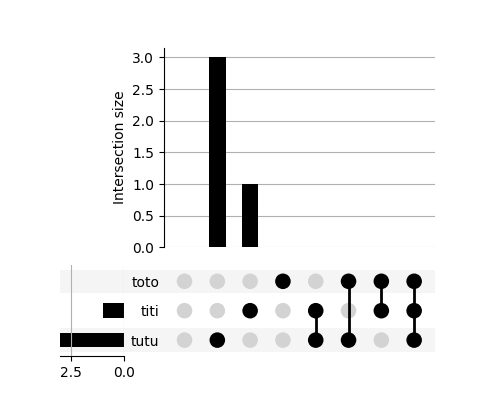
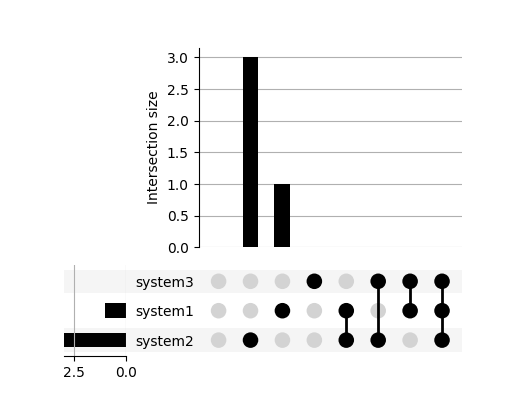
Adde examples

diff --git a/bio_to_upset_plots.py b/bio_to_upset_plots.py
@@ -62,7 +62,7 @@ def get_all_res_tokens(data, names, debug):
         all_res[type_res][cle]+=1
   return all_res
 
-def bio2upsetData(data, names, debug = False, verbose = True):
+def bio2upsetData(data, names, debug = False, verbose = False):
   """Transforms BIO data in upset_plot format"""
   all_res_tokens = get_all_res_tokens(data, names, debug)
   if verbose==True:
@@ -91,14 +91,15 @@ def plot_graph(res, path, img_format = "png"):
     example = from_memberships(liste_cats, data = data_out)
     plot(example)
     path_img = f"{path_figures}/{typ_res}.{img_format}"
-    print(path_img)
+    if VERBOSE==True:
+      print(path_img)
     pyplot.savefig(path_img)
 
-  print(f"  figures stored in '{path_figures}/'")
+  print(f"--> figures stored in '{path_figures}/'")
 
   path_upset = f"{path}/data_upset.json"
   write_json_file(path_upset, [liste_cats, data_out])
-  print(f"  output file in upset plot format stored in '{path_upset}'")
+  print(f"--> output file in upset plot format stored in '{path_upset}'")
 
 def verify_data(list_files, data_in):
   """Verify the number of BIO lines and that the tokens are the same"""
@@ -120,14 +121,20 @@ def get_names_plot(list_files, dic_names):
   If dic_names contains a "translation" for each path or each filename, it gives the translation
   """
   names = [re.split("/|\.", x)[-2] for x in list_files]
-  if len(dic_names)==len(list_files):
-    missing_paths     = set(dic_names.keys()).difference(set(list_files))
-    missing_filenames = set(dic_names.keys()).difference(set(names))
+  if len(dic_names)>0:
+    missing_paths     = set(list_files).difference(set(dic_names.keys()))
+    missing_filenames = set(names).difference(set(dic_names.keys()))
     if len(missing_paths)==0:# Translating path
       return [dic_names[x] for x in list_files]
     elif len(missing_filenames)==0:# Tranlasting filenames
       return [dic_names[x] for x in names]
   # If we are there, translation was not possible
+    print("-"*20)
+    print("'dic_names' is incomplete")
+    print(f"It provided translations for {list(dic_names.keys())} but :")
+    print(f"  - I'm missing filepath translation for {missing_paths}")
+    print(f"  - I'm missing filename translation for {missing_filenames}")
+    print("-"*20)
   return names
 
 def files_2_cat(path, img_format = "png", dic_names= {}):
@@ -137,7 +144,7 @@ def files_2_cat(path, img_format = "png", dic_names= {}):
 
   data_in = [file2_triple(path_file) for path_file in list_files]
   verify_data(list_files, data_in)
-  res = bio2upsetData(data_in, names, debug=DEBUG)
+  res = bio2upsetData(data_in, names, debug=DEBUG, verbose = VERBOSE)
   plot_graph(res, path, img_format = img_format)
 
 # for an external usage just call the files_2_cat function with a path containing BIO files
@@ -149,6 +156,7 @@ if __name__=="__main__":
   print("DIR is the directory where the aligned result files (BIO format) are stored")
   print("The names displayed on the graphs will be derived from the filenames")
   DEBUG = False
+  VERBOSE = True
   if len(sys.argv)==1:
     print("\nspecify the path of the directory containg the BIO result files")
     print("\nfor example python bio_to_upset_plots.py example_data")
@@ -159,16 +167,43 @@ if __name__=="__main__":
     DEBUG = True
   TOKENS=True
   path = sys.argv[1]
+
+  ### Simple usage
+  print("Simple usage : ")
+  print("files_2_cat(path)")
   files_2_cat(path)
 
-  # One can change the image format :
+  VERBOSE = False
+  ### Changing image format
+  print("\n") 
+  print("*"*20)
+  dd= input("One can change the image format with img_format :")
+  print("*"*20)
+  print("files_2_cat(path, img_format=\"svg\")")
   files_2_cat(path, img_format="svg")
 
-  # One can also give alternative names for each name in path
-
+  ### Giving alternative names on the graphs (default: filenames)
+  print("\n") 
+  print("*"*20)
+  dd = input("One can also give alternative names for each name in path")
+  print("*"*20)
+  
   # Creating dummy values for the example
   dummy_names= ["toto", "titi", "tutu"]
   liste_path = glob.glob(f"{path}/*.tx*")
   dic_path = {liste_path[i]:dummy_names[i] for i in range(len(dummy_names))}
+  print(f"dic_path={dic_path}")
+  print("files_2_cat(path, dic_names = dic_path)")
+  files_2_cat(path, dic_names = dic_path)
+
+  print("\n") 
+  print("*"*20)
+  print("What happens if dic_path is incomplete?")
+  print("*"*20)
+
+  print(f"liste path = {liste_path}")
+  print(f"dic_path.keys() = {dic_path.keys()}")
+
+  dic_path = {liste_path[i]:dummy_names[i] for i in range(2)}
 
   files_2_cat(path, dic_names = dic_path)
